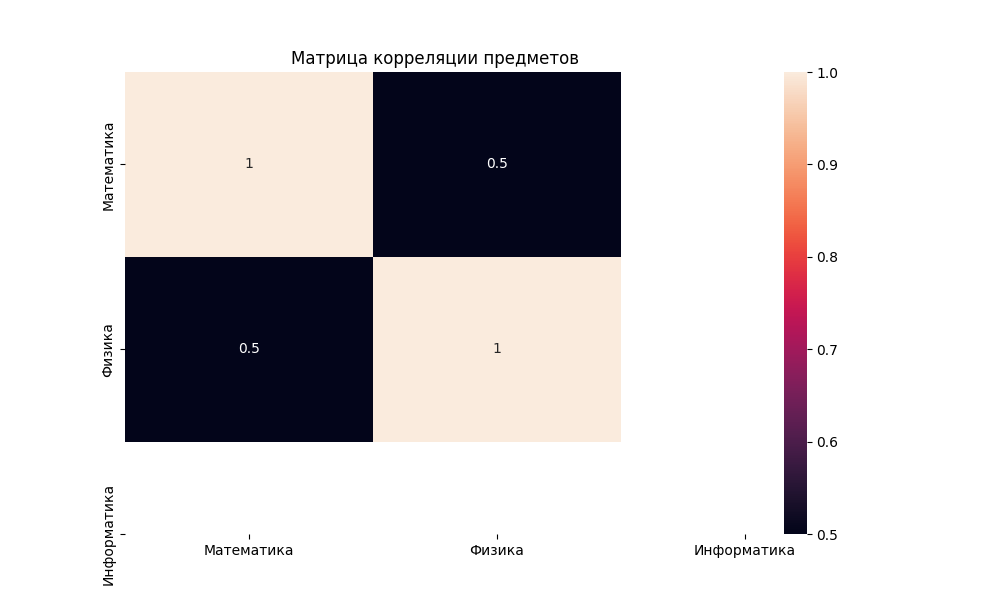
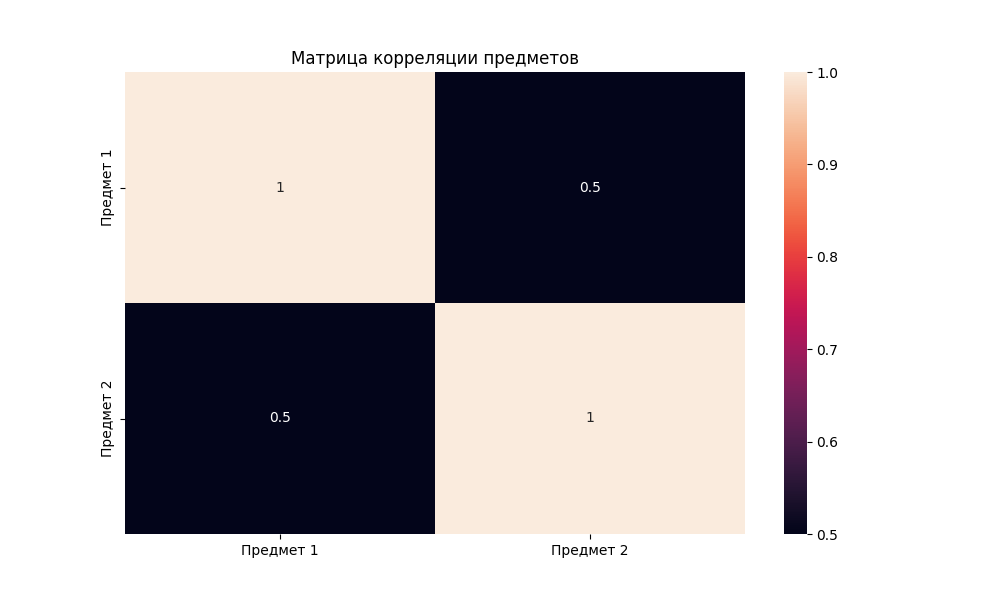
Update heatmap.png in Lab_2

Changed region(s): [[0.093, 0.12, 0.806, 0.99], [0.093, 0.21, 0.124, 0.36], [0.093, 0.54, 0.124, 0.63]]

diff --git a/code/Lab_2/main.py b/code/Lab_2/main.py
@@ -272,9 +272,18 @@ def plot_heatmap(matrix: np.ndarray) -> None:
     """
     os.makedirs('plots', exist_ok=True)
 
+    n = matrix.shape[0]
+
+    # Автоматически создаём подписи в зависимости от размера
+    if n == 3:
+        labels = ['Математика', 'Физика', 'Информатика']
+    elif n == 2:
+        labels = ['Предмет 1', 'Предмет 2']
+    else:
+        labels = [f'Предмет {i+1}' for i in range(n)]
+
     plt.figure(figsize=(10, 6))
-    sns.heatmap(matrix, annot=True, xticklabels=['Математика', 'Физика', 'Информатика'],
-                yticklabels=['Математика', 'Физика', 'Информатика'])
+    sns.heatmap(matrix, annot=True, xticklabels=labels, yticklabels=labels)
     plt.title('Матрица корреляции предметов')
     plt.savefig('plots/heatmap.png')
     plt.close()

diff --git a/code/Lab_2/test.py b/code/Lab_2/test.py
@@ -2,6 +2,7 @@
 
 import os
 import numpy as np
+import pytest
 
 from main import *
 
